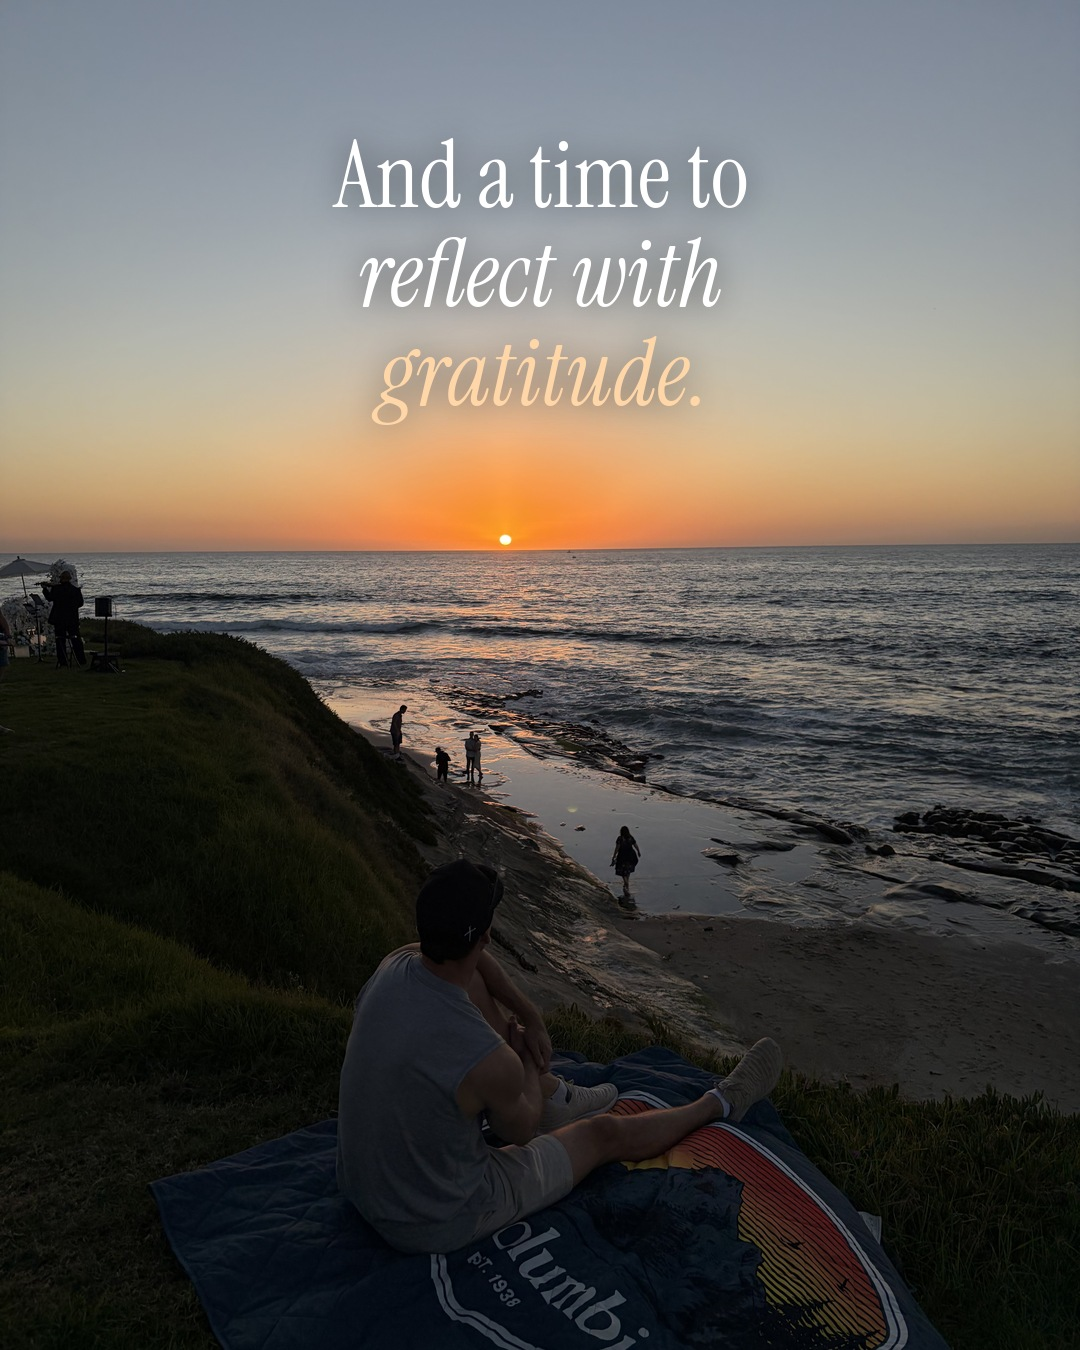
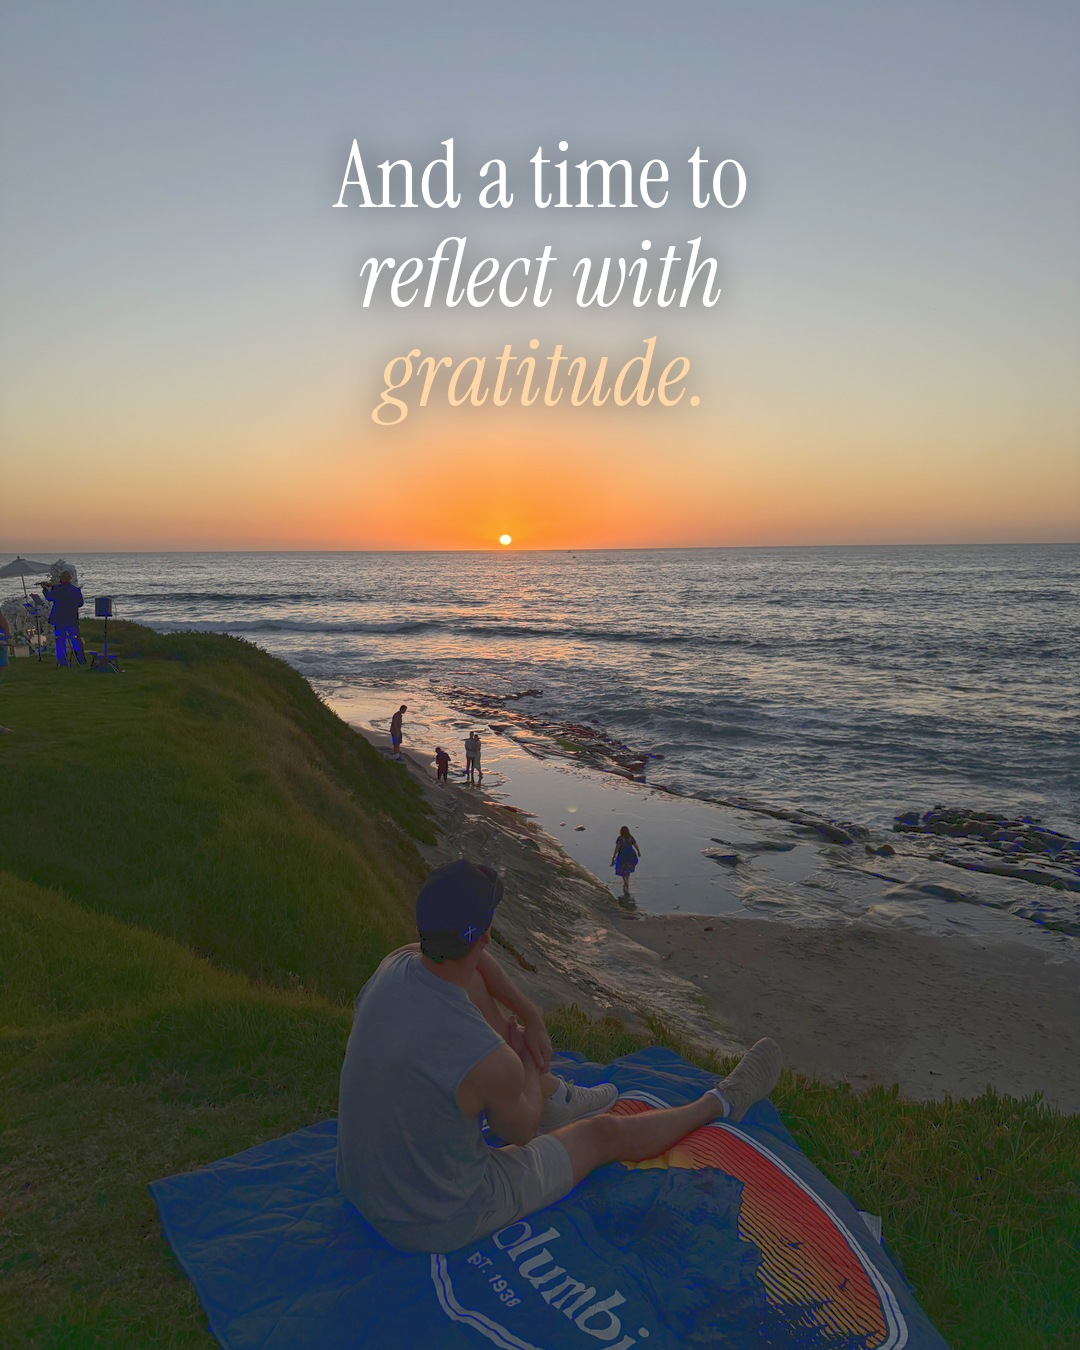
Lighten sunset slides: lift shadows on slide 2, brighter sky background on scripture slide
Claude-Session: https://claude.ai/code/session_011gVf9H2TaiJBFzKVXCBUkZ

diff --git a/scripts/render_photo_carousel.py b/scripts/render_photo_carousel.py
@@ -91,6 +91,23 @@ REF = "Ecclesiastes 3:1"
 cafe = fit(CAFE, 0.5)
 sunset = fit(SUNSET, 0.62)
 
+
+def lift(img, shadows=0.55, gamma=0.78, sat=1.08):
+    """Brighten shadows and midtones while keeping the bright sky from blowing out."""
+    import numpy as np
+    a = np.asarray(img).astype(np.float32) / 255.0
+    lum = 0.299 * a[..., 0] + 0.587 * a[..., 1] + 0.114 * a[..., 2]
+    target = lum ** gamma
+    target = target + shadows * (1 - target) * (1 - lum) ** 3 * 0.35
+    ratio = np.where(lum > 1e-4, target / np.maximum(lum, 1e-4), 1.0)[..., None]
+    out = np.clip(a * ratio, 0, 1)
+    g = out.mean(axis=2, keepdims=True)
+    out = np.clip(g + (out - g) * sat, 0, 1)
+    return Image.fromarray((out * 255).astype("uint8"))
+
+
+sunset = lift(sunset, shadows=0.35, gamma=0.86, sat=0.96)
+
 for name, st in STYLES.items():
     C = (lambda s: s.upper()) if st["caps"] else (lambda s: s)
     fs = font(*st["setup"])
@@ -119,16 +136,19 @@ for name, st in STYLES.items():
     s2.save(f"{OUT}/{name}/slide-2.jpg", quality=93)
 
     # Slide 3, scripture: blurred, darkened sunset sky, bone text
-    bg = sunset.filter(ImageFilter.GaussianBlur(28))
+    # sky only: from the top of the photo down to just past the horizon, so the slide is a soft sunset gradient
+    raw = ImageOps.exif_transpose(Image.open(SUNSET)).convert("RGB")
+    sky = raw.crop((int(raw.width * 0.1), 0, int(raw.width * 0.9), int(raw.height * 0.45)))
+    bg = sky.resize((W, H), Image.LANCZOS).filter(ImageFilter.GaussianBlur(30))
     shade = Image.new("RGB", (W, H), INK)
-    bg = Image.blend(bg, shade, 0.55)
+    bg = Image.blend(bg, shade, 0.22)
     fv = font(*st["verse"])
     fr = font(*st["ref"])
     vl = [(C(t), fv, BONE, 0) for t in VERSE]
     vl[-1] = (vl[-1][0], fv, BONE, 30)
-    vl.append((C(REF) if st["caps"] else REF, fr, LOAK, 0))
+    vl.append((C(REF) if st["caps"] else REF, fr, BONE, 0))
     y0 = (H - block_height(vl)) // 2
-    s3 = draw_block(bg, vl, W // 2, y0, "center", (0, 0, 0, 90))
+    s3 = draw_block(bg, vl, W // 2, y0, "center", (10, 14, 24, 150), blur=14)
     d = ImageDraw.Draw(s3)
     d.line((W // 2 - 40, y0 - 60, W // 2 + 40, y0 - 60), fill=LOAK, width=3)
     s3.save(f"{OUT}/{name}/slide-3.jpg", quality=93)
